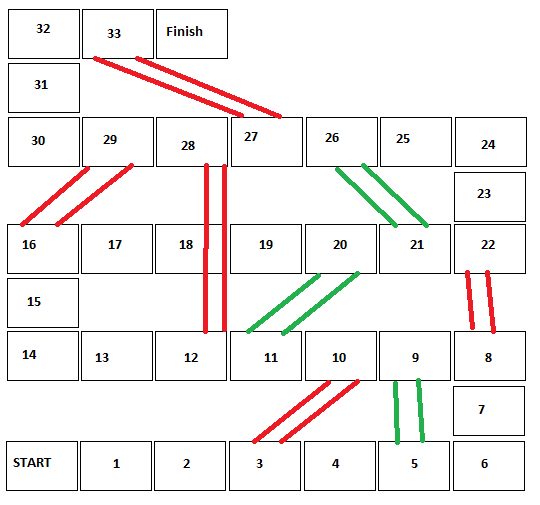
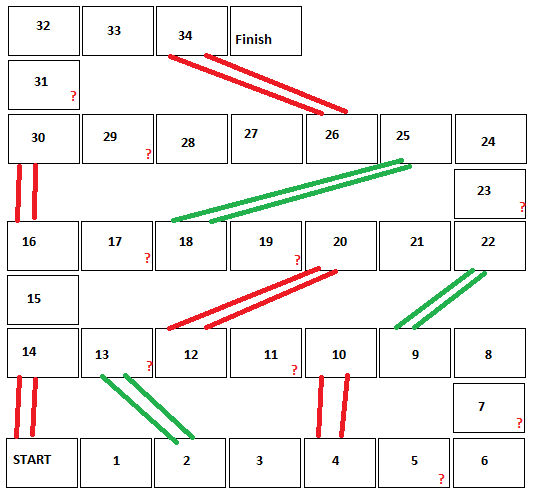
image

Changed region(s): [[0.0, 0.0, 0.9869, 1.0], [0.329, 0.6998, 0.3888, 0.7302], [0.8972, 0.6998, 0.9271, 0.7302]]

diff --git a/SnakeAndLaders/Game.Designer.cs b/SnakeAndLaders/Game.Designer.cs
@@ -31,10 +31,10 @@
             menuStrip = new MenuStrip();
             btnOptions = new ToolStripMenuItem();
             btnAide = new ToolStripMenuItem();
-            pictureBox1 = new PictureBox();
+            pibPlateau = new PictureBox();
             pnlStart = new Panel();
             menuStrip.SuspendLayout();
-            ((System.ComponentModel.ISupportInitialize)pictureBox1).BeginInit();
+            ((System.ComponentModel.ISupportInitialize)pibPlateau).BeginInit();
             SuspendLayout();
             // 
             // menuStrip
@@ -58,18 +58,19 @@
             btnAide.Size = new Size(43, 20);
             btnAide.Text = "Aide";
             // 
-            // pictureBox1
+            // pibPlateau
             // 
-            pictureBox1.Image = Properties.Resources.TableSnakeLader;
-            pictureBox1.Location = new Point(12, 27);
-            pictureBox1.Name = "pictureBox1";
-            pictureBox1.Size = new Size(541, 513);
-            pictureBox1.SizeMode = PictureBoxSizeMode.StretchImage;
-            pictureBox1.TabIndex = 2;
-            pictureBox1.TabStop = false;
+            pibPlateau.Image = Properties.Resources.TableSnakeLader2;
+            pibPlateau.Location = new Point(12, 27);
+            pibPlateau.Name = "pibPlateau";
+            pibPlateau.Size = new Size(541, 513);
+            pibPlateau.SizeMode = PictureBoxSizeMode.StretchImage;
+            pibPlateau.TabIndex = 2;
+            pibPlateau.TabStop = false;
             // 
             // pnlStart
             // 
+            pnlStart.BackColor = Color.Transparent;
             pnlStart.Location = new Point(22, 479);
             pnlStart.Name = "pnlStart";
             pnlStart.Size = new Size(63, 41);
@@ -81,13 +82,13 @@
             AutoScaleMode = AutoScaleMode.Font;
             ClientSize = new Size(779, 552);
             Controls.Add(pnlStart);
-            Controls.Add(pictureBox1);
+            Controls.Add(pibPlateau);
             Controls.Add(menuStrip);
             Name = "Game";
             Text = "Game";
             menuStrip.ResumeLayout(false);
             menuStrip.PerformLayout();
-            ((System.ComponentModel.ISupportInitialize)pictureBox1).EndInit();
+            ((System.ComponentModel.ISupportInitialize)pibPlateau).EndInit();
             ResumeLayout(false);
             PerformLayout();
         }
@@ -97,7 +98,7 @@
         private MenuStrip menuStrip;
         private ToolStripMenuItem btnOptions;
         private ToolStripMenuItem btnAide;
-        private PictureBox pictureBox1;
+        private PictureBox pibPlateau;
         private Panel pnlStart;
     }
 }

diff --git a/SnakeAndLaders/Properties/Resources.Designer.cs b/SnakeAndLaders/Properties/Resources.Designer.cs
@@ -129,5 +129,25 @@ namespace SnakeAndLaders.Properties {
                 return ((System.Drawing.Bitmap)(obj));
             }
         }
+        
+        /// <summary>
+        ///   Recherche une ressource localisée de type System.Drawing.Bitmap.
+        /// </summary>
+        internal static System.Drawing.Bitmap TableSnakeLader1 {
+            get {
+                object obj = ResourceManager.GetObject("TableSnakeLader1", resourceCulture);
+                return ((System.Drawing.Bitmap)(obj));
+            }
+        }
+        
+        /// <summary>
+        ///   Recherche une ressource localisée de type System.Drawing.Bitmap.
+        /// </summary>
+        internal static System.Drawing.Bitmap TableSnakeLader2 {
+            get {
+                object obj = ResourceManager.GetObject("TableSnakeLader2", resourceCulture);
+                return ((System.Drawing.Bitmap)(obj));
+            }
+        }
     }
 }

diff --git a/SnakeAndLaders/Game.cs b/SnakeAndLaders/Game.cs
@@ -15,6 +15,7 @@ namespace SnakeAndLaders
         public Game()
         {
             InitializeComponent();
+            pnlStart.Parent = 
         }
     }
 }
